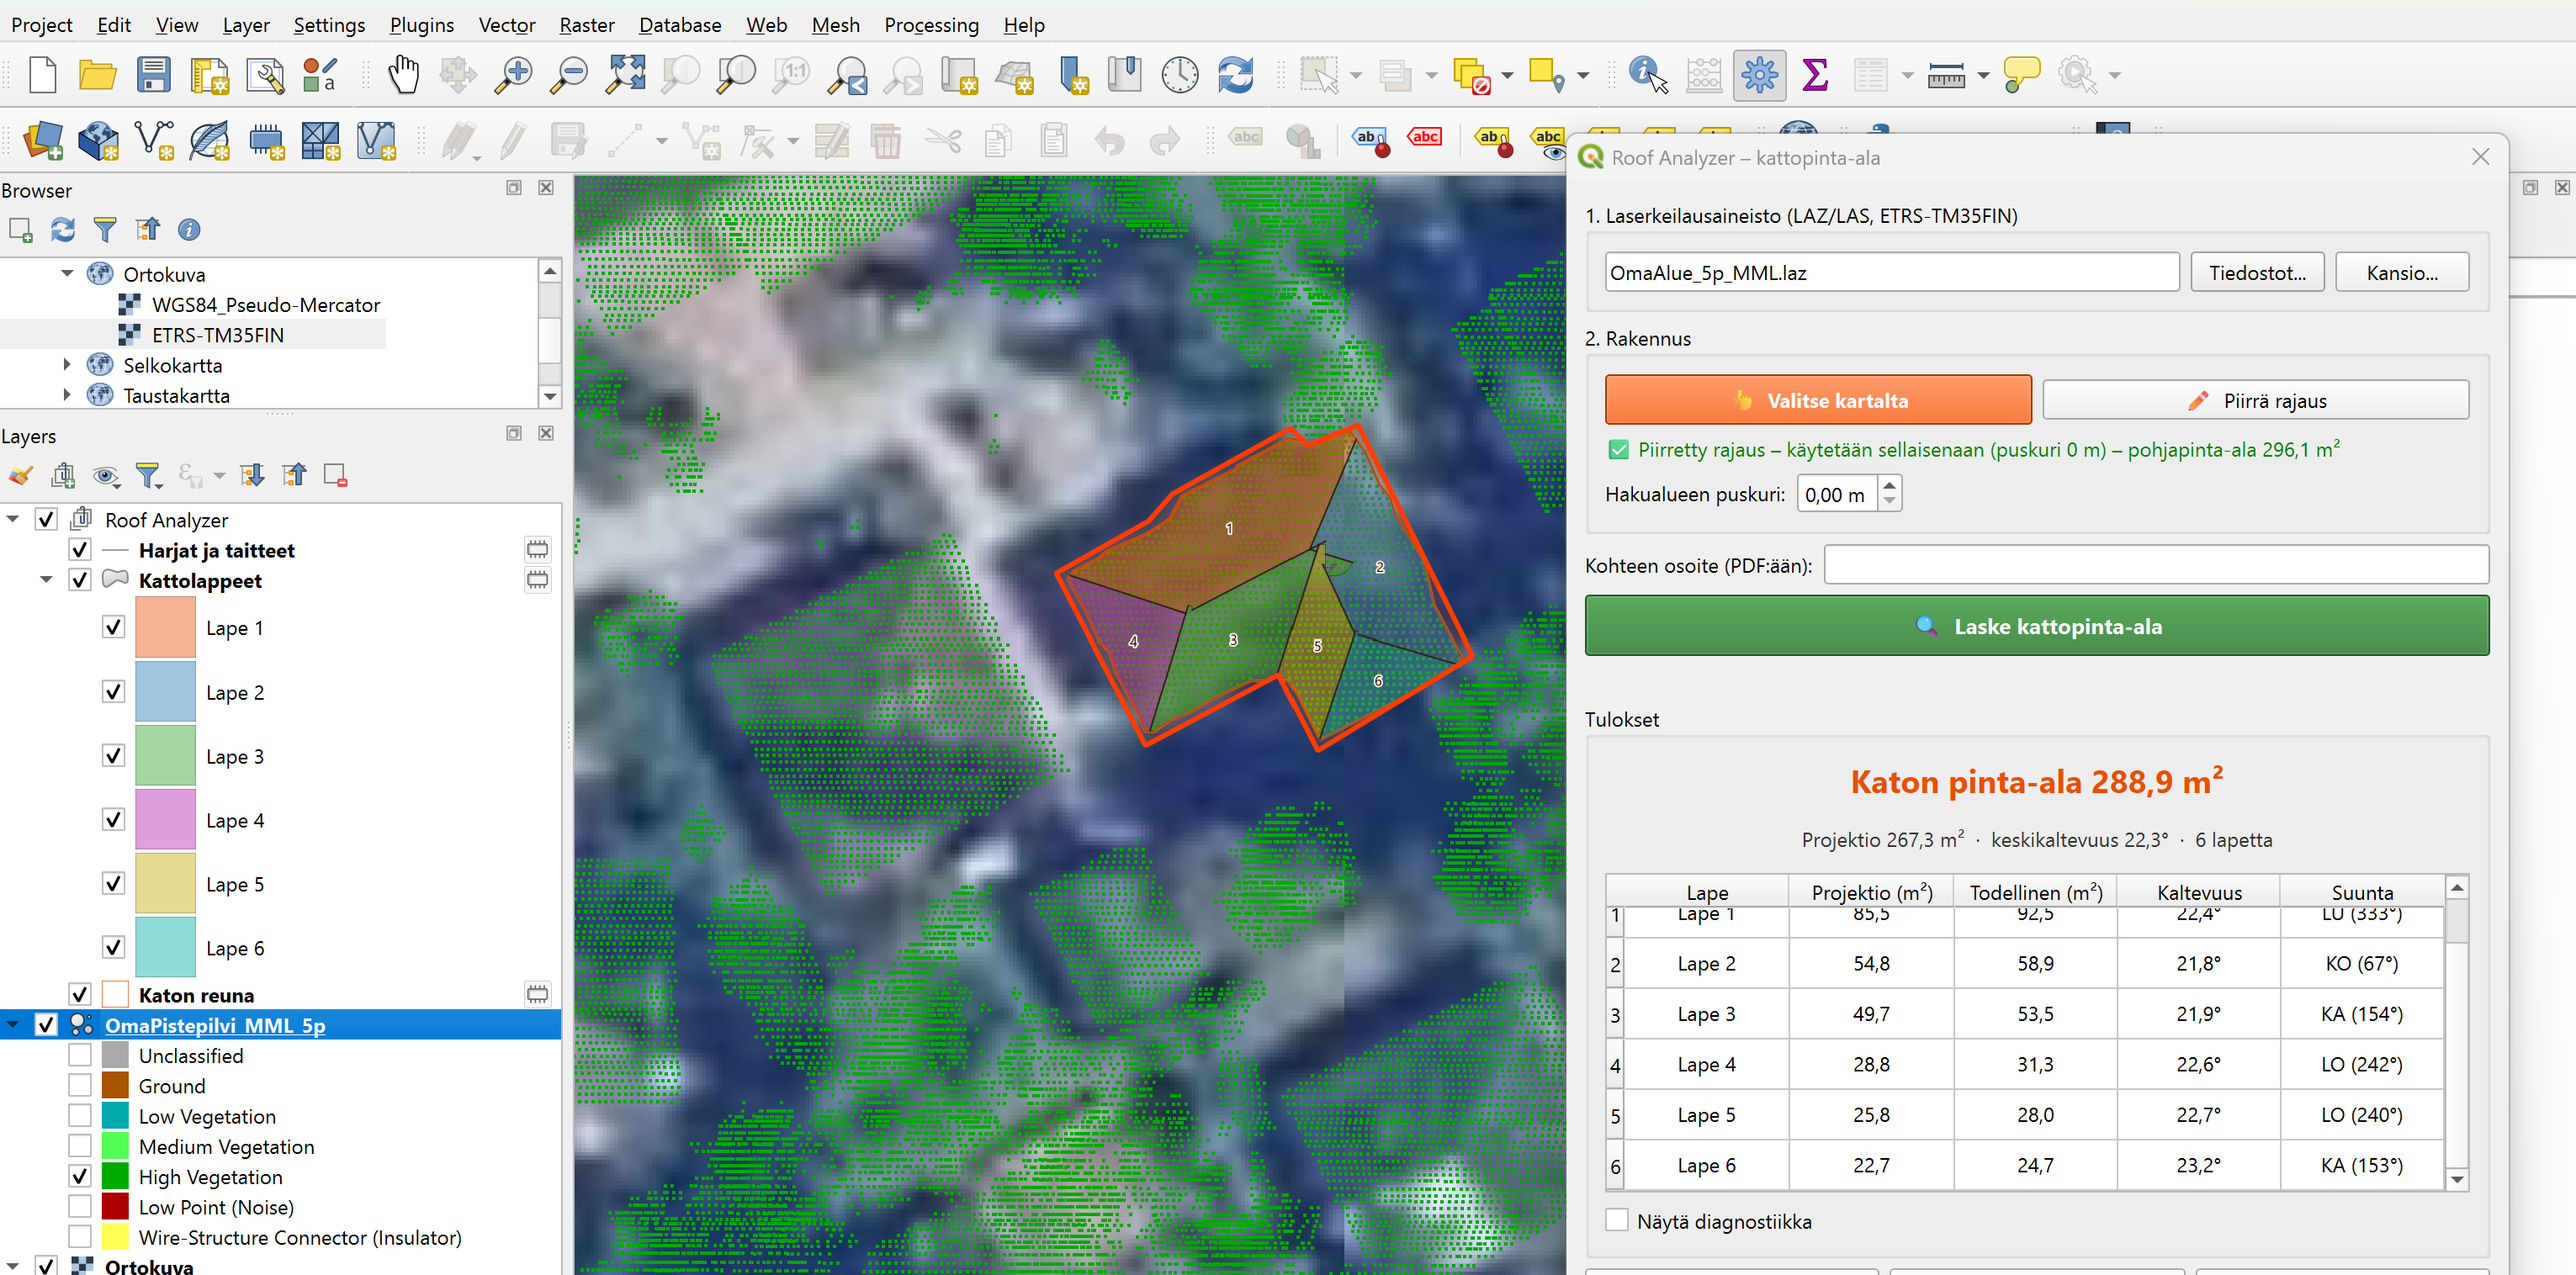
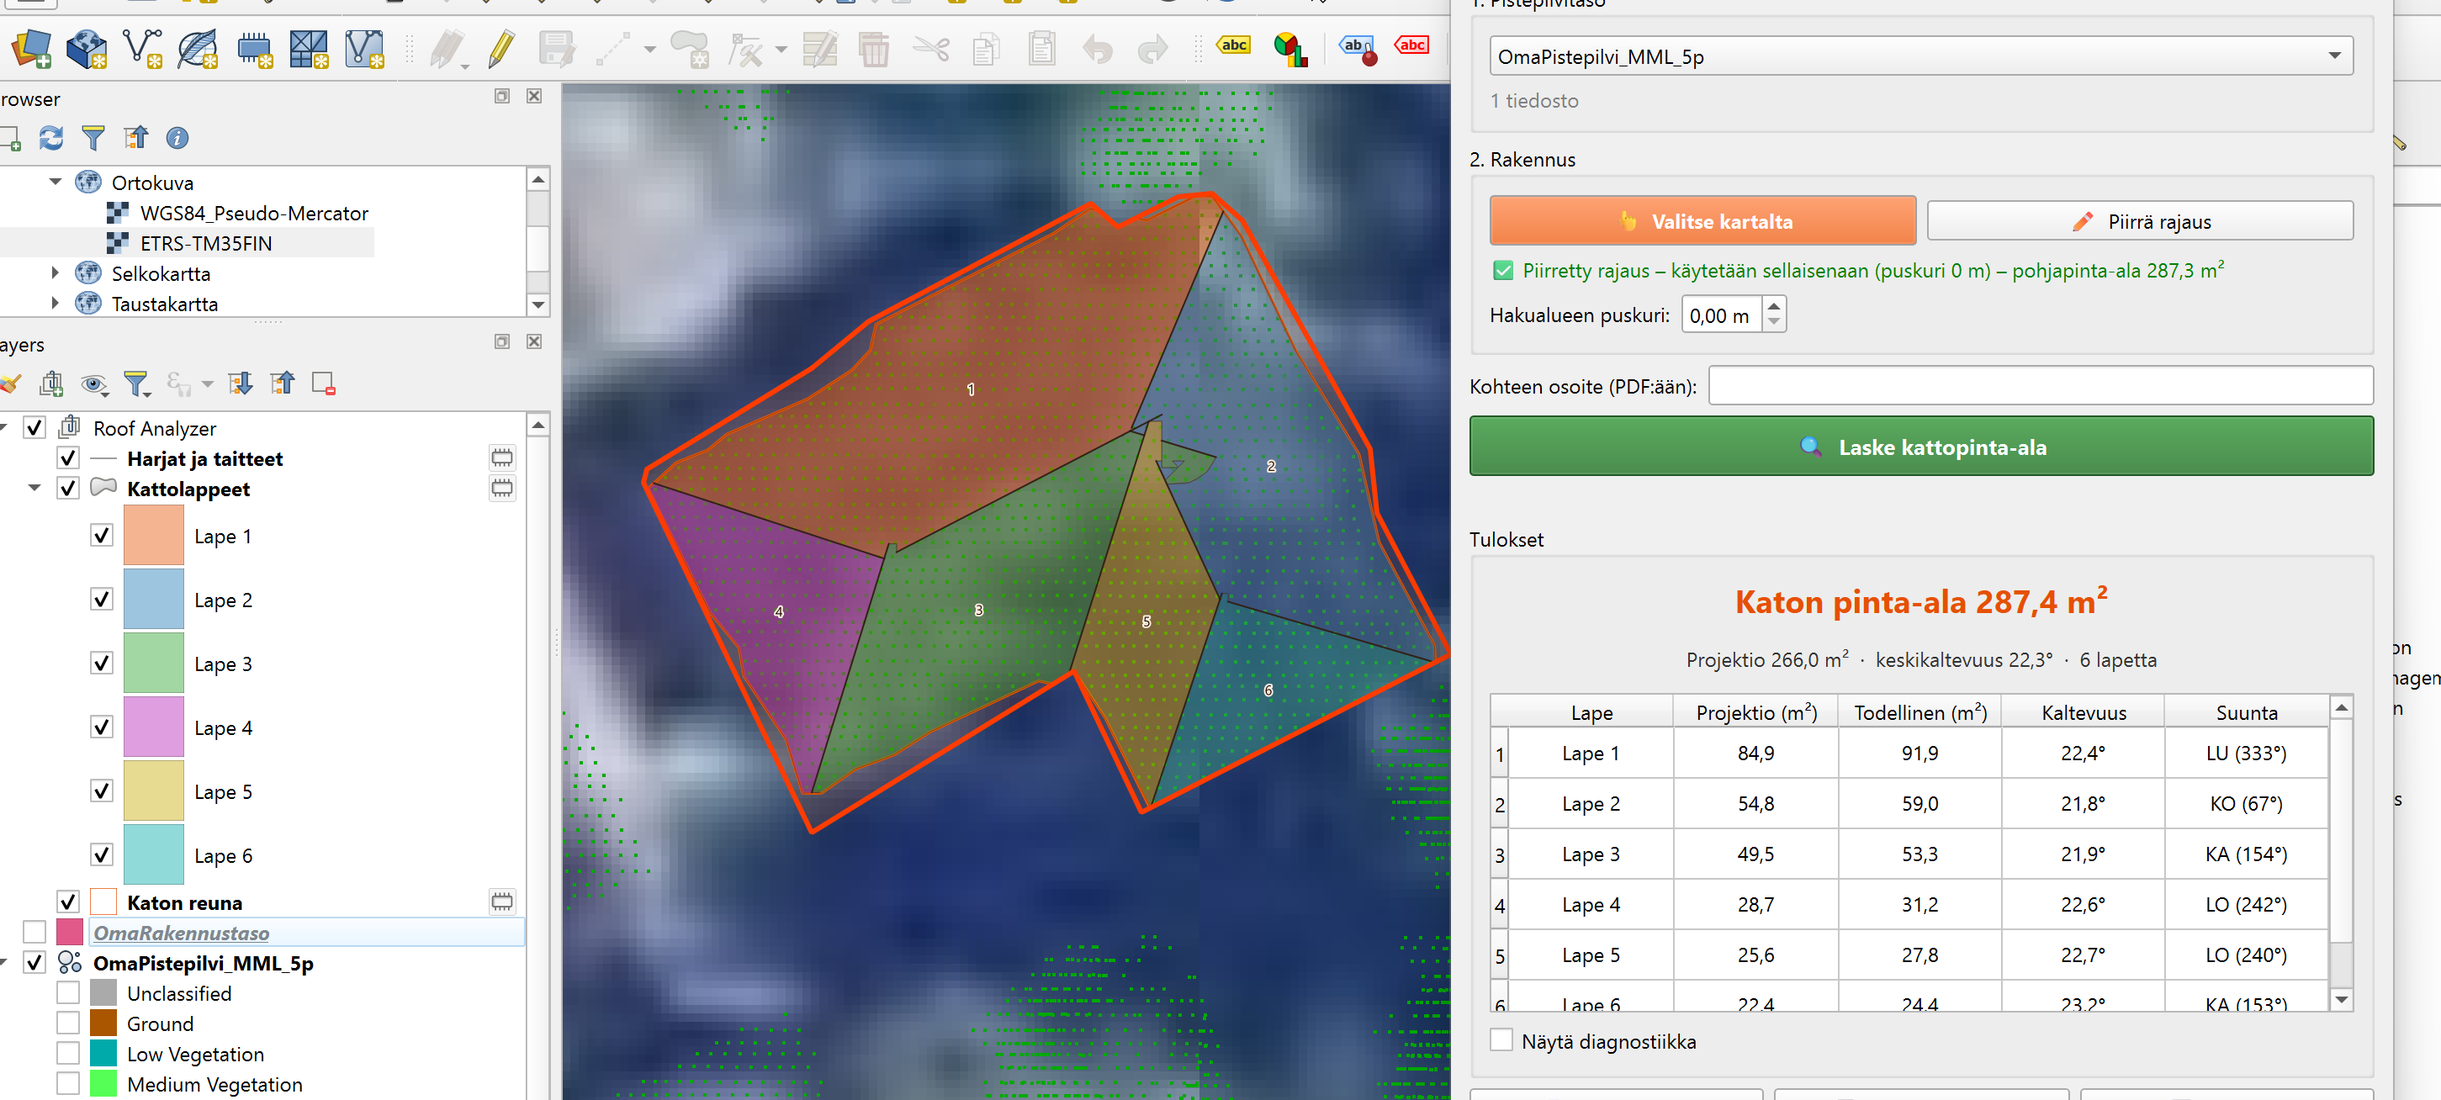
Add files via upload

diff --git a/QGIS-RoofAnalyzer/README.md b/QGIS-RoofAnalyzer/README.md
@@ -26,12 +26,7 @@ Roof Analyzer on QGIS-lisäosa, joka laskee rakennuksen katon todellisen pinta-a
 Lisäosa on tehty maanmittausinsinööriopiskelijan omaan tarpeeseen. Hän halusi tarkistaa katon pinta-alan ja verrata tulosta siihen, mitä kattomaalaustarjousten jättäjät olivat mitanneet tai arvioineet.
 
 Tulokset ovat laskennallisia arvioita (ks. [Rajoitukset](#rajoitukset)).
-Allaolevassa kuvassa on käytetty piirrä rajaus -toimintoa joka on suositeltavampi tapa. Rakennuksen kattotuolien piirustuksissa kattotuolin kulmaksi on kerrottu 21.8 astetta ja plugin on tämän laskenut pistepilvestä kohtalaisen hyvin.
-![Roof Analyzerin tulos aumakatolla](RoofAnalyzer.png)
 
-
-Tässä allaolevassa kuvassa on käytetty valmista polygonia MML maastotietokannan aineistosta Valitse kartalta toiminnallisuudella. Rajaus ei ole kovin onnistunut.
-![Roof Analyzerin tulos aumakatolla](RoofAnalyzer_MML_rakennusrajaus.png)
 ---
 
 ## Mitä lisäosa tekee
@@ -171,25 +166,33 @@ Aineisto toimitetaan LAZ-tiedostoina, ja yksi tiedosto kattaa noin 1 km × 1 km 
 
 1. Avaa QGIS ja luo uusi projekti.
 2. Lisää taustakartaksi **ilmakuva** (ortokuva), jotta näet rakennukset.
-3. Lisää laserkeilausaineisto karttaan **pistepilvitasona**:
+3. Lisää laserkeilausaineisto karttaan **pistepilvitasona**. Lisäosa lukee aineiston tästä tasosta, joten tämä vaihe on pakollinen.
    - Vedä LAZ-tiedosto hiirellä QGIS-ikkunaan, tai
    - valitse **Taso → Lisää taso → Lisää pistepilvitaso…**
+   - Jos rakennus on kahden karttalehden rajalla, lisää molemmat tiedostot karttaan.
    - Ensimmäisellä kerralla QGIS indeksoi tiedoston, mikä voi kestää minuutin tai pari. Indeksi tallentuu tiedoston viereen, joten seuraavilla kerroilla taso avautuu nopeasti.
 4. Jätä näkyviin vain luokka, jossa katot ovat:
    - QGIS näyttää pistepilven valmiiksi luokittain väritettynä, ja luokat näkyvät tasoluettelossa pistepilvitason alla.
    - Poista valinta kaikista muista luokista paitsi **High Vegetation** (korkea kasvillisuus, luokka 5).
    - MML:n aineistossa katot ovat tässä luokassa. Kartalla näkyvät nyt vain katot ja puut, ja maanpinta sekä matala kasvillisuus piiloutuvat.
+   - Luokkien piilottaminen vaikuttaa vain siihen, mitä kartalla näkyy. Lisäosa käyttää laskennassa aina kaikkia tarvitsemiaan luokkia, myös piilotettuja maanpintapisteitä.
 
 Pistepilvitasosta on suurta hyötyä rajauksen piirtämisessä (ks. [kohta 3](#3-rajaa-rakennus)).
 
-### 2. Avaa lisäosa ja valitse LAZ-tiedostot
+### 2. Avaa lisäosa ja valitse pistepilvitaso
 
 1. Avaa lisäosa: **Lisäosat → Roof Analyzer → Roof Analyzer** tai työkalurivin painikkeesta.
-2. Kohdassa **1. Laserkeilausaineisto** valitse aineisto:
-   - **Tiedostot…** – valitse yksi tai useampi LAZ-tiedosto, tai
-   - **Kansio…** – valitse kansio. Lisäosa ottaa mukaan kaikki kansion ja sen alikansioiden LAZ/LAS-tiedostot.
+2. Kohdan **1. Pistepilvitaso** valikossa näkyvät kaikki projektiin lisätyt pistepilvitasot. Valitse:
+   - **Kaikki pistepilvitasot** – käyttää kaikkia projektin pistepilvitasoja. Tämä on oletus, kun tasoja on useampi kuin yksi. Valitse tämä, jos rakennus on kahden karttalehden rajalla.
+   - **yksittäinen taso** – käyttää vain valittua tasoa.
 
-Lisäosa lukee aina vain ne tiedostot, jotka osuvat rakennuksen kohdalle, joten koko kansion valitseminen ei hidasta laskentaa. Valinta muistetaan seuraavalla käyttökerralla.
+Lisäosa lukee aina vain ne tiedostot, jotka osuvat rakennuksen kohdalle, joten useiden tasojen valitseminen ei hidasta laskentaa. Valikko päivittyy automaattisesti, kun lisäät tai poistat pistepilvitasoja.
+
+Valikon alla näkyy punaisella huomautus, jos:
+- tason lähdetiedosto ei ole LAZ- tai LAS-tiedosto, tai
+- tason koordinaattijärjestelmä ei ole ETRS-TM35FIN (EPSG:3067).
+
+Jos valikossa lukee *Ei pistepilvitasoja – lisää LAZ-tiedosto karttaan*, palaa [kohtaan 1](#1-valmistele-karttanäkymä).
 
 ### 3. Rajaa rakennus
 
@@ -308,7 +311,7 @@ Valitse tuloksista **Näytä diagnostiikka**, niin näet laskennan välivaiheet:
 |---|---|
 | *Puuttuva kirjasto: No module named 'laspy'* | Python-kirjastot puuttuvat tai ne on asennettu väärään Pythoniin. Tee [vaihe 1](#vaihe-1-python-kirjastojen-asennus-windows) uudelleen OSGeo4W Shellissä järjestelmänvalvojana ja käynnistä QGIS uudelleen. |
 | *Lisäosa ei ole yhteensopiva tämän QGIS-version kanssa* | QGIS on liian vanha. Päivitä vähintään versioon 3.28. |
-| *Mikään valituista LAZ-tiedostoista ei kata rakennuksen aluetta* | Valitsemasi tiedostot ovat eri alueelta kuin rakennus. Tarkista, että tilasit oikean karttalehden ja valitsit oikean tiedoston. |
+| *Mikään valituista LAZ-tiedostoista ei kata rakennuksen aluetta* | Valitun pistepilvitason aineisto on eri alueelta kuin rakennus. Tarkista, että tilasit oikean karttalehden ja valitsit oikean tason, tai valitse **Kaikki pistepilvitasot**. |
 | *Alueelta ei löytynyt yhtään laserpistettä* | Rajaus ei osu aineiston alueelle, tai aineisto ei ole ETRS-TM35FIN-koordinaatistossa. |
 | Lisäosa ei näy valikossa asennuksen jälkeen | Tarkista **Lisäosat → Hallitse ja asenna lisäosia… → Asennettu**, että Roof Analyzerin valintaruutu on valittuna. |
 | Muutokset eivät näy uuden version asennuksen jälkeen | Poista vanha versio, käynnistä QGIS uudelleen ja asenna uusi. |
